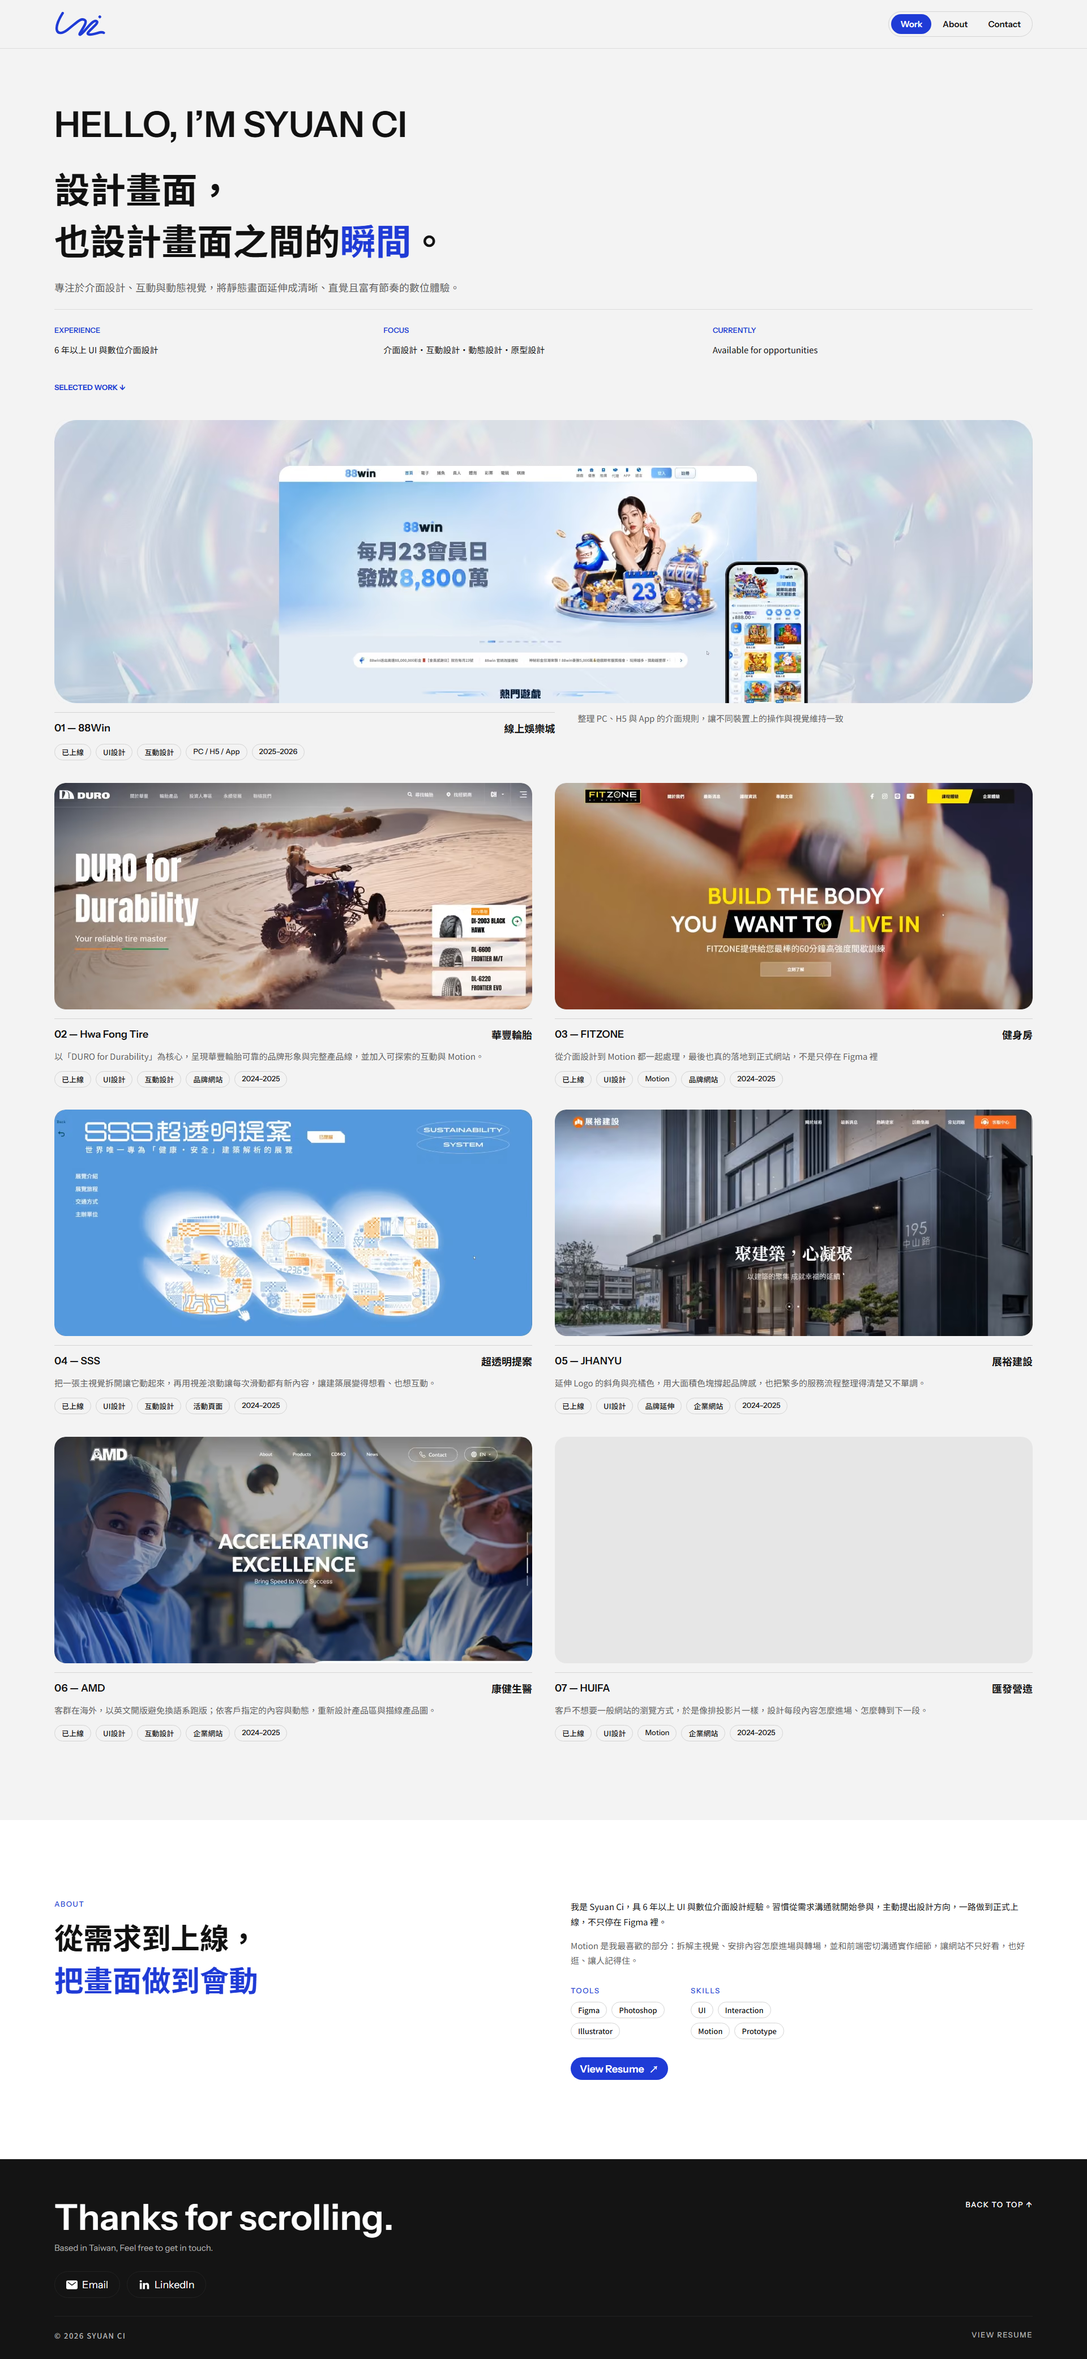
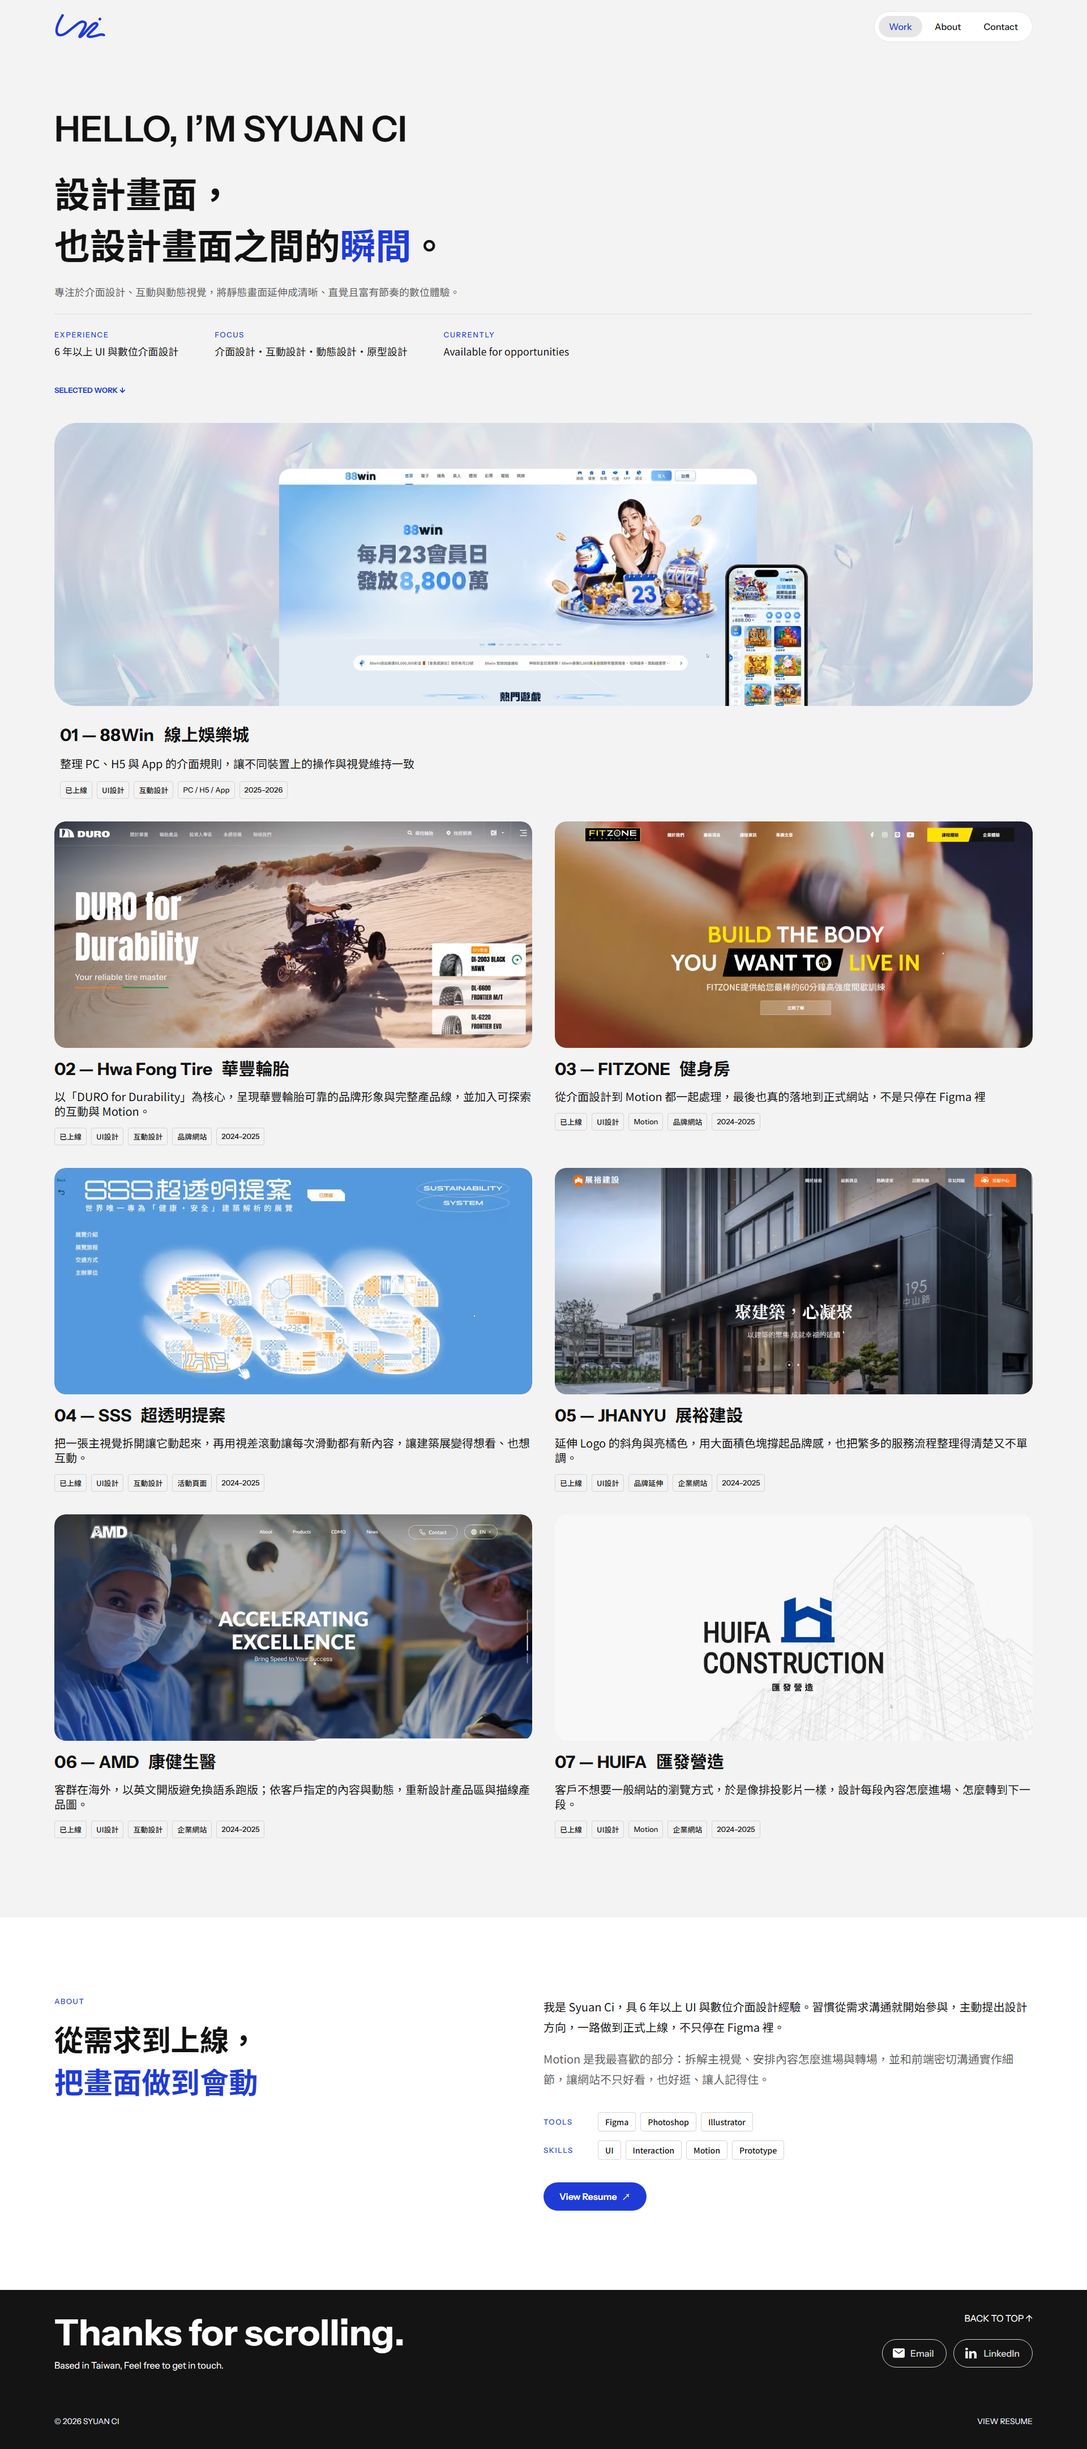
docs(m1): record role swap, per-weight font amendment, and screenshots

diff --git a/docs/HANDOFF.md b/docs/HANDOFF.md
@@ -3,21 +3,50 @@
 > Every agent reads this first and updates it before ending a session in which project state changed.
 
 ## Status (2026-10-30)
-- **Phase**: **M1 — Home implementation is deployed in Draft PR #10; review-ready status is blocked only by the CJK font architecture decision in Issue #9.**
-- **Branch / PR**: `feat/m1-home` / [PR #10](https://github.com/kimbluesoul/portfolio-2026/pull/10) (Draft).
-- **Quality gate**: the final `pnpm verify` run on 2026-10-30 passed format, lint, Astro check, unit tests (42), E2E/axe/CSP tests (16), build, media checks, and bundle checks. Lighthouse is the sole failing gate: font transfer is 802,008 bytes against the 204,800-byte budget, median LCP is 6,214.076 ms, and the median performance score is 0.63.
-- **Implemented scope**: Figma token transcription, 7-project home content, Hero, project cards/grid, About, Footer, navigation, hover/focus states, reduced-motion behavior, and `<reveal-on-view>`.
-- **Preview**: Cloudflare Workers build succeeded; live branch URL: `https://feat-m1-home-portfolio-2026.kimbluesoul.workers.dev/`.
+- **Phase**: **M1 — Home is implemented and green. It is awaiting independent review by ChatGPT** (temporary role swap, see below).
+- **Branch / PR**: `feat/m1-home` / [PR #10](https://github.com/kimbluesoul/portfolio-2026/pull/10).
+- **Quality gate**: the full `pnpm verify` passes locally:
+  - lint, format, Astro check;
+  - 42 unit tests;
+  - two-pass build with font coverage and media / content / bundle checks;
+  - 18 E2E / axe / CSP tests;
+  - 9 Lighthouse runs.
+
+  Home: LCP ~1.7 s, performance 0.99, fonts 115 KB.
+- **Preview**: `https://feat-m1-home-portfolio-2026.kimbluesoul.workers.dev/`.
+
+## ⚠ Temporary role swap (2026-10-30)
+ChatGPT ran out of usage partway through the M1 review fixes. At the Product Owner's request:
+- **Claude** acted as **Implementation Engineer** for the rest of M1. Commit `a8025a3` recovers ChatGPT's uncommitted local work verbatim. Commit `3deda7c` and later commits are Claude's.
+- **ChatGPT** acts as **independent Reviewer** for PR #10, focusing on Claude's commits. Claude did not review its own code.
+- After PR #10 is merged, roles return to normal: ChatGPT implements, Claude reviews.
+- **ChatGPT's local checkout** (`Documents/Codex/2026-10-29/.../work/portfolio-2026`) still contains the old uncommitted changes, now superseded by the pushed branch. Before any new work there, run `git fetch origin` and then `git reset --hard origin/feat/m1-home`, or start from a fresh clone. A backup of those files is in `%LOCALAPPDATA%\Temp\pf-backup`.
 
 ## Roles
 - **Product Owner / UI Designer:** user
-- **Architect / Code Reviewer:** Claude
-- **Implementation Engineer:** ChatGPT
+- **Architect / Code Reviewer:** Claude (temporarily also the M1 implementer)
+- **Implementation Engineer:** ChatGPT (temporarily the M1 reviewer)
 
 ## Next owner
-1. **Claude / Architect**: review Draft PR #10 and decide Architecture Issue #9. The recommended path is build-time Noto Sans TC glyph subsetting in a superseding ADR; the alternatives are a larger font budget or a system-font fallback.
-2. **ChatGPT**: after that decision, apply the approved font strategy, make `pnpm verify` green, update this handoff, and move the M1 PR out of draft.
-3. **Product Owner**: confirm the transcribed Figma values in `docs/DESIGN_SYSTEM.md`, the lightweight project-card poster direction, and the Workers preview.
+1. **ChatGPT (Reviewer)**: review PR #10, especially Claude's commits from `3deda7c` on, using the P0–P3 format in `CLAUDE.md`. Post the verdict as a PR comment starting with `Reviewer: APPROVED` or `Reviewer: CHANGES REQUESTED`.
+2. **Claude**: address the findings, if any.
+3. **Product Owner**: check the preview against Figma, then merge PR #10.
+
+## What changed in M1 (for the reviewer)
+- **Content**: all home copy, tags, and links are verbatim from `docs/content/home-copy.md` (Figma). Unknown values are `TODO(CONTENT)`. There are 9 markers: case-study SEO / next fields and the site SEO title / description. Production builds fail while any remain.
+- **Visual fidelity vs Figma** (`360:3`, `474:1057`, `465:662`):
+  - card typography and layout;
+  - nav active state;
+  - hero credentials row;
+  - About tool / skill rows;
+  - footer grid order (mobile vs desktop).
+
+  Values are cited in `docs/DESIGN_SYSTEM.md` → Typography.
+- **Fonts (ADR-0012 + amendment)**: Noto Sans TC is subset per weight (700 = h1–h3, 500 = tag chips, 400 = all text), with core / ext splits and a per-weight coverage gate on `dist/`. Fonts are not preloaded.
+- **Images**: the 7 card images from #12 render through `astro:assets` `<Picture>` (AVIF / WebP). The featured card is eager with `fetchpriority="high"`; the others are lazy.
+- **Known limits**:
+  - Card images are 1× Figma exports. The Product Owner may replace them with 2× files of the same name.
+  - The site SEO title / description need Product Owner copy before launch.
 
 ## Decisions recorded on 2026-10-29
 - **Q1 / A2**: 7 projects in a fixed order (PRODUCT.md updated).
@@ -25,62 +54,55 @@
 - **Q3**: the resume page follows the layout of `public/files/Syuan-Ci-Resume.pdf`.
 - **Q4**: motion tokens and rules are in DESIGN_SYSTEM → Motion. Steps do not auto-advance.
 - **Q5**: AMD 維護 video resolved by the Product Owner.
-- **Q6**: videos never autoplay. Desktop plays on hover / focus, mobile on tap with a play indicator.
-- **A1**: ChatGPT reads Figma directly and exports image assets itself. Videos come from the Product Owner.
+- **Q6**: videos never autoplay. Desktop plays on hover / focus; mobile plays on tap with a play indicator.
+- **A1**: ChatGPT reads Figma directly. In practice, Figma image export was not available to ChatGPT, so Claude exported the M1 images (#12).
 
 ## Decisions recorded on 2026-10-30
 - **ADR-0011**: Cloudflare Workers static assets via Workers Builds supersedes Cloudflare Pages. Production uses `portfolio-2026.kimbluesoul.workers.dev`; previews are branch deployments.
+- **ADR-0012** (+ amendment): build-time Noto Sans TC subsetting per weight, with no font preloads.
+- **ARCHITECTURE §5.1 content fidelity rule**: copy is verbatim from Figma or the Product Owner. Missing values use `TODO(CONTENT)`.
 - **Q8**: no analytics or tracking scripts.
 - **Q9**: Traditional Chinese only. There is no English site or English PDF.
-- **Q10**: hidden Figma layers are never implemented. AMD uses `360:2355`; hidden frame `437:652` is unused. Hwa Fong includes the live link `https://www.duro.com.tw/`. PRODUCT.md project order wins, and 「深藍」 maps to `--color-bg-inverse`.
+- **Q10**: hidden Figma layers are never implemented. AMD uses `360:2355`; hidden frame `437:652` is unused. Hwa Fong includes the live link `https://www.duro.com.tw/`. The PRODUCT.md project order wins, and 「深藍」 maps to `--color-bg-inverse`.
 
 ## Blockers
 | Blocks | Item | Owner |
 |---|---|---|
-| M1 review-ready | [Issue #9](https://github.com/kimbluesoul/portfolio-2026/issues/9): the approved full Noto Sans TC unicode slices exceed the M0 200 KB font budget. A superseding architecture decision is required. | Claude / Architect |
-| M2–M3 | Delivery of video files per project (MP4 masters) | Product Owner |
-| M5 | Q7: choose a custom production domain if one will be used; `*.workers.dev` remains the fallback | Product Owner |
+| M1 merge | Independent review of PR #10 | ChatGPT (Reviewer) |
+| Launch (M5) | Site SEO title + description copy (`TODO(CONTENT)` in `site.yaml`) | Product Owner |
+| M2–M3 | Case-study copy (from Figma), assets, and video files | Product Owner |
 
 ## M0 implementation notes
 - Astro 7 static output, Node 24, pnpm, TypeScript strictest, approved dependencies, and all §16.1 scripts are configured.
-- Content schemas enforce the §5.1 media and project cardinality rules. `site.yaml` and one schema-valid 88Win placeholder entry are included.
-- `BaseLayout`, header/footer skeletons, and `/`, `/work/[slug]/`, `/resume/`, `/404` placeholders are present.
-- CSS includes approved color and motion tokens. Typography and spacing remain marked `TODO(DESIGN_SYSTEM)` for M1 transcription and Product Owner confirmation.
-- Noto Sans TC uses generated Fontsource unicode slices based on repository content so CSS/font budgets remain enforced without a third-party font service.
-- `postcss-html` is a dev-only parser required for Stylelint to enforce token rules inside Astro scoped styles; it has no runtime output.
-- CI runs verify → E2E/axe → Lighthouse. Media size, pending media, gzip CSS, and gzip first-party JS budgets are build gates.
-- P2-1: Astro's hashed meta CSP owns resource directives. `_headers` now contains only `frame-ancestors`, `base-uri`, `object-src`, and `form-action`; Playwright applies that header to every route and checks console/CSP violations.
-- P2-2: captioned media now requires `title`, allows optional `caption`, and keeps `media` required.
-- P2-3: project URLs now come only from the content entry ID. The loader rejects filenames outside the seven approved slugs.
-- P1-A: `wrangler.jsonc` configures `dist/` as Workers static assets with 404 fallback and forced trailing slashes; Wrangler is an exact-version dev dependency. pnpm permits install scripts only for Wrangler's required `esbuild` and `workerd` packages.
-- Cloudflare's current Workers Builds preview flow replaces the production deploy command with `npx wrangler preview` on non-`main` branches. Wrangler 4.155.0 therefore requires an empty top-level `previews` block. Issue #4 records this minimal addition because the accepted P1-A snippet predates that platform requirement; production settings remain unchanged.
-- P1-B: the production pending-media guard now checks `WORKERS_CI_BRANCH === 'main'`.
-- URL configuration uses `https://portfolio-2026.kimbluesoul.workers.dev` for Astro canonical/sitemap generation and `robots.txt`.
-- Workers Builds is configured with build command `pnpm build`, deploy command `npx wrangler deploy`, root `/`, Node 24, and pnpm 11.25.0. Retrying an older failed build reuses its old settings snapshot; a new commit is required to validate current settings.
-- Cloudflare Worker URL and Preview URLs are enabled. The live branch preview is `https://feat-m0-bootstrap-portfolio-2026.kimbluesoul.workers.dev/`.
-- P2-4 (collection-level order validation) and P2-5 (all Figma font weights) are explicitly deferred to M1 per the Architect review.
+- Content schemas enforce the §5.1 media and project cardinality rules.
+- `BaseLayout`, header / footer, and the `/`, `/work/[slug]/`, `/resume/`, `/404` routes are present.
+- `postcss-html` is a dev-only parser that Stylelint needs to enforce token rules inside Astro scoped styles. It has no runtime output.
+- CI runs verify → E2E / axe → Lighthouse. Media size, pending media, `TODO(CONTENT)`, gzip CSS, and gzip first-party JS budgets are build gates.
+- P2-1: Astro's hashed meta CSP owns the resource directives. `_headers` contains only `frame-ancestors`, `base-uri`, `object-src`, and `form-action`. Playwright applies that header to every route and checks for console / CSP violations.
+- P2-2: captioned media requires `title`, allows an optional `caption`, and requires `media`.
+- P2-3: project URLs come only from the content entry ID. The loader rejects filenames outside the seven approved slugs.
+- P1-A / Issue #4: `wrangler.jsonc` configures `dist/` as Workers static assets, with a 404 fallback, forced trailing slashes, and an empty `previews` block for branch previews.
+- P1-B: the production pending-media guard checks `WORKERS_CI_BRANCH === 'main'`.
+- Workers Builds: build command `pnpm build`, deploy command `npx wrangler deploy`, root `/`, Node 24, pnpm 11.25.0. Retrying an older failed build reuses its old settings snapshot, so a new commit is required to validate current settings.
 
 ## M1 implementation notes
-- Figma desktop `360:3`, mobile `474:1057`, and interactive component section `465:662` were read in Dev Mode. Exact typography, spacing, layout widths, and child-node citations are recorded in `docs/DESIGN_SYSTEM.md`.
-- P2-4 is implemented through `getOrderedProjects()`. Both the home page and `[slug].astro` call it, so duplicate/gapped order values fail every production build.
-- P2-5 is implemented by generating Noto Sans TC unicode-range CSS for weights 400, 500, and 700.
-- The 7 home project entries now exist in the approved PRODUCT order. Case-study bodies remain M2/M3 scope; their schema-valid fields are intentionally minimal.
-- Home videos are not enabled because the Product Owner has not delivered the M1 card MP4 files. Cards use lightweight in-code poster compositions and the approved CSS hover behavior; `<loop-video>` therefore remains out of scope under ARCHITECTURE §19 (“if cards use video”).
-- Visual QA screenshots are committed at `docs/screenshots/m1-home-desktop.png` (1920 px) and `docs/screenshots/m1-home-mobile.png` (390 px).
-- All local checks are green except Lighthouse. The browser loads 24 Noto Sans TC WOFF2 slices (802,008 bytes); the final `pnpm verify` measured median LCP at 6,214.076 ms and performance score at 0.63. This cannot be changed inside M1 without superseding ADR-0008, so Architecture Issue #9 was raised instead of silently changing the decision.
-- Exact resume point if this session stops: Draft PR #10 and its Workers preview are live. Wait for Claude's decision on Issue #9; then apply the approved font strategy, rerun `pnpm verify`, update this file and the PR, and mark the PR ready only when the required gates are green.
+- P2-4: `getOrderedProjects()` is used by the home page and `[slug].astro`, so duplicate or gapped order values fail every build.
+- P2-5: Noto Sans TC weights 400 / 500 / 700 are all generated (per-weight subsets, ADR-0012 amendment).
+- Card videos are not enabled because no card MP4s have been delivered. `<loop-video>` remains out of scope for M1 under ARCHITECTURE §19 ("if cards use video").
+- Visual QA screenshots: `docs/screenshots/m1-home-desktop.png` (1920 px) and `docs/screenshots/m1-home-mobile.png` (390 px), produced by `scripts/capture-home.mjs` against `pnpm preview`.
+- Local tooling note: if a stale `astro preview` is already listening on port 4321, Playwright reuses it outside CI. Run `CI=true pnpm test:e2e` (or stop the stale server) so tests hit the current build.
 
 ## Milestone tracker
 | Milestone | State |
 |---|---|
 | Collaboration scaffold | Done (PR #1) |
-| Architecture v1.1 | Done (PR #3) |
+| Architecture v1.1 / v1.2 | Done (PR #3, #11) |
 | M0 Bootstrap | Done (PR #2) |
-| M1 Home | **Draft PR #10; architecture-blocked** (`feat/m1-home`, Issue #9) |
+| M1 Home | **PR #10 green; awaiting ChatGPT review** |
 | M2 Case template + 88Win | Not started |
 | M3 Remaining case studies | Not started |
 | M4 Resume | Not started |
 | M5 Launch hardening | Not started |
 
 ## Workflow reminder
-ChatGPT implements on a feature branch → `pnpm verify` green → PR using the template → Claude review (P0–P3, verdict comment) → ChatGPT fixes → Claude re-review → Product Owner merges.
+ChatGPT implements on a feature branch → `pnpm verify` green → PR using the template → Claude review (P0–P3, verdict comment) → ChatGPT fixes → Claude re-review → Product Owner merges. (M1 only: roles swapped, see above.)

diff --git a/docs/DESIGN_SYSTEM.md b/docs/DESIGN_SYSTEM.md
@@ -27,9 +27,17 @@ Child-node citations are included beside each measured value. Values are direct 
 | Home introduction | 18 / 23 px | 15 / 24.75 px | Noto Sans TC 400 | `360:9`, `474:1073` |
 | Section cue | 14 / 18 px | 12 / 15 px | Instrument Sans 700 / 500 | `360:25`, `474:1258` |
 | About display | 52 / 68 px | 30 / 39.6 px | Noto Sans TC 700 | `451:667`, `474:1259` |
-| About body | — | 15 / 26.25 px | Noto Sans TC 400 | `474:1261` |
+| About body | 20 / 36 px | 15 / 26.25 px | Noto Sans TC 400 | `451:670`, `474:1261` |
+| Project card title | 30 / 39 px | 22 / 30 px | Instrument Sans 700 + Noto Sans TC 700 | `465:1040`, `474:1130` |
+| Project card summary | 20 / 26 px | 15 / 24.75 px | Noto Sans TC 400, text-primary | `465:1043`, `474:1133` |
+| Tag chip | 13 / 17 px | 12 / 17 px | Noto Sans TC 500 (years: Instrument Sans 500) | `465:1045`, `474:1135` |
+| About tool / skill chip | 14 / 20 px | 14 / 20 px | Noto Sans TC 500 | `451:675`, `474:1267` |
+| Nav item | 16 / 18 px | 12.8 / 14.4 px | Instrument Sans 500 | `466:895`, `473:918` |
+| Footer title | 64 px | 38 / 1.1 | Instrument Sans 700 | `212:209`, `473:923` |
 
-Format is `font-size / line-height`. The About and section labels use `0.12em` letter spacing (`451:666`, `474:1258`). The Noto Sans TC weights used by the approved home are 400, 500, and 700; all three are generated as unicode-range slices (P2-5).
+Format is `font-size / line-height`. The About and section labels use `0.12em` letter spacing (`451:666`, `474:1258`).
+
+**Noto Sans TC weight usage (implementation constraint, ADR-0012):** 700 only in headings (`h1`–`h3`), 500 only in tag chips (`li`), 400 everywhere else. Fonts are subset per weight to exactly those elements. A new Chinese use of 500 or 700 outside these elements must be added to `scripts/font-text.mjs`, or the glyphs fall back to the system font.
 
 ## Spacing
 

diff --git a/ADR/0012-build-time-cjk-font-subsetting.md b/ADR/0012-build-time-cjk-font-subsetting.md
@@ -44,3 +44,8 @@ LCP ≤ 2.5 s and Performance ≥ 0.90 are unchanged.
 - **Raise the budget and keep Fontsource slices** (Issue #9 option 2): ships about 4× more bytes than needed. Rejected.
 - **System CJK fonts for body copy** (option 3): fastest, but Windows renders Microsoft JhengHei, which visibly departs from the design. Rejected because typography is core to the portfolio.
 - **One subset for the whole site**: simpler, but the home page would download every case study's glyphs. The core/ext split costs one extra rule per weight.
+
+## Amendment (2026-10-30, M1 implementation)
+- **Per-weight glyph sets.** Each weight is subset to the text it renders, not to all text. The element→weight rule is a design-system constraint recorded in `docs/DESIGN_SYSTEM.md` and implemented once in `scripts/font-text.mjs`: 700 = `h1`–`h3`, 500 = `li` (tag chips), 400 = all rendered text. The coverage gate (`scripts/check-font-coverage.mjs`) applies the same rule per weight to `dist/`.
+- **No font preloads.** The home LCP element is the featured project image, so preloading fonts only competed with it for bandwidth. Neither Noto Sans TC nor Instrument Sans is preloaded. This supersedes §10.
+- Measured on M1 (Lighthouse mobile, local): home fonts 802 KB → **115 KB**; home LCP 6.2 s → **~1.7 s**; performance 0.63 → **0.99**.
